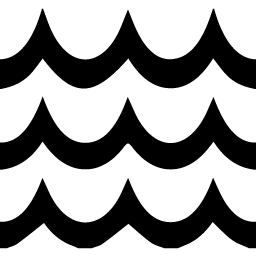
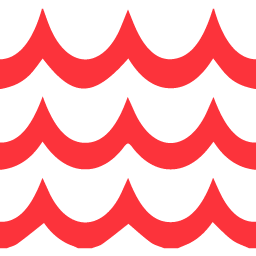
①波のアイコンを入れ替え②タイトルバーのCSSを変更

diff --git a/static/css/style.css b/static/css/style.css
@@ -138,27 +138,27 @@ h3.sub-fix-var {
 h5.first-sub-title {
   background-color: rgb(94,92,96);
   width: 100%;
-  height: 26px;
+  height: 30px;
   color: rgb(255,255,255);
-  font-size: 16px;
+  font-size: 20px;
   text-align: left;
   padding-left: 15px;
 
-  margin: 65px 0px 0px 0px;
-  padding-top: 5px;
-  padding-bottom: 5px;
+  margin: 68px 0px 0px 0px;
+  padding-top: 4px;
+  padding-bottom: 6px;
 }
 
 h5.sub-title {
   background-color: rgb(94,92,96);
   width: 100%;
-  height: 26px;
+  height: 30px;
   color: rgb(255,255,255);
-  font-size: 16px;
+  font-size: 20px;
   text-align: left;
   padding-left: 15px;
-  padding-top: 5px;
-  padding-bottom: 5px;
+  padding-top: 4px;
+  padding-bottom: 6px;
 }
 /*==========================================*/
 
@@ -246,8 +246,8 @@ table#toppage-table tr td:nth-of-type(3) {
 }
 
 table#toppage-table tr td:nth-of-type(4) {
-  padding-left: 0px;
-  padding-right: 0px;
+  padding-left: 3px;
+  padding-right: 3px;
 }
 
 table#toppage-table tr td:nth-of-type(5) {
@@ -276,7 +276,7 @@ table#toppage-table thead tr {
 
 /*==========練習概要ページ(outline_detail.html)==========*/
 table#sea-status {
-  margin: 10px 15px 10px 15px;
+  margin: 10px 15px 10px 45px;
 }
 
 td.status-icon {
